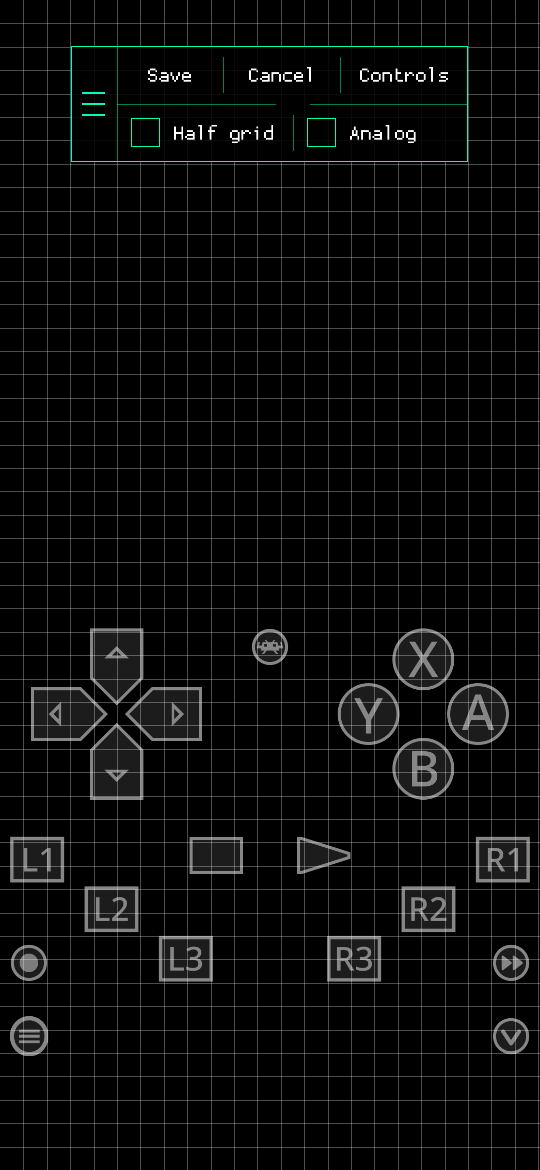
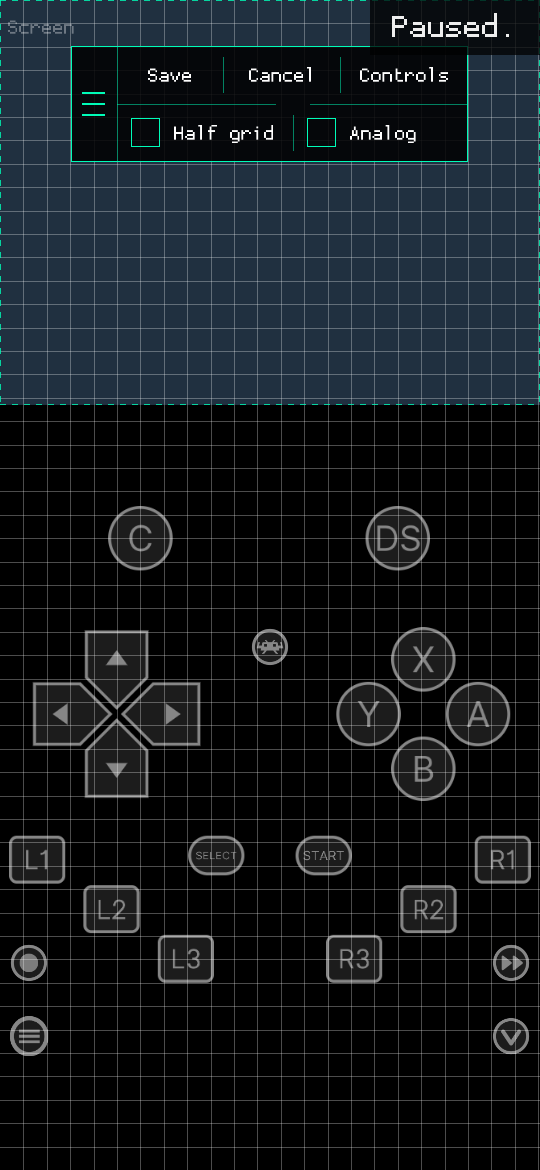
README: new screenshots and gamepads as overrides keep them
Screenshots of drawn buttons, sizing, Filled style, custom buttons,
Load Gamepad and the DS gamepad, in place of ones from before drawn
buttons; and where gamepads and their choice are kept.

Claude-Session: https://claude.ai/code/session_01S9RPqRvyYtWtRu6nZgD6gG

diff --git a/README.md b/README.md
@@ -82,30 +82,36 @@ Layout**, or **Quick Menu → On-Screen Overlay → Touch Layout** in a game.
   - **Save as Gamepad**: a copy of the gamepad shown, as laid out, to
     lay out apart, say for one game.
   - **Load Gamepad**: switch gamepads, the way RetroArch's Overlay
-    Preset works. While a game runs, the change lasts until it closes;
+    Preset works; the one in use is ticked. While a game runs, the change lasts until it closes;
     to keep it, save an override (Quick Menu > Overrides > Save Core
     Overrides or Save Game Overrides). With no game running, it is the
     gamepad for all content, apart from DS and 3DS cores, which start
     on their own unless an override says otherwise. Picking a gamepad
-    file as Overlay Preset (Settings > On-Screen Display > On-Screen
+    file as Overlay Preset (Settings > User Interface > On-Screen
     Overlay) does the same; the files are in `overlays/gamepads/custom`.
   - **Delete Gamepad**: delete one you saved.
-- **Reset Gamepad**: put a built-in gamepad back as it comes.
+  - **Reset Gamepad**: put a built-in gamepad back as it comes. A
+    built-in one that is missing is made again.
 
 #### Screenshots
 
-Portrait, with the bundled Neo RetroPad overlay and the Highlighter
-theme.
+Portrait, with the Main gamepad (drawn from the bundled Neo RetroPad
+overlay) and the Highlighter theme.
 
 <table>
   <tr>
     <td align="center"><img src="docs/touch-layout/touch-layout-menu.png" width="200" alt="Touch Layout menu"><br>Touch Layout menu</td>
-    <td align="center"><img src="docs/touch-layout/editor.png" width="200" alt="Layout editor with its bar and grid"><br>Editor, bar and grid</td>
-    <td align="center"><img src="docs/touch-layout/editor-controls.png" width="200" alt="Controls list in the editor"><br>Controls list</td>
+    <td align="center"><img src="docs/touch-layout/editor.png" width="200" alt="Layout editor with its bar, grid and the game screen box"><br>Editor, bar and grid</td>
+    <td align="center"><img src="docs/touch-layout/editor-size.png" width="200" alt="Face buttons selected, with Size and Shape sliders"><br>Size and Shape</td>
   </tr>
   <tr>
-    <td align="center"><img src="docs/touch-layout/editor-analog.png" width="200" alt="Editor on the analog page"><br>Analog page</td>
-    <td align="center"><img src="docs/touch-layout/controls-menu.png" width="200" alt="Controls menu"><br>Controls menu</td>
+    <td align="center"><img src="docs/touch-layout/custom-buttons.png" width="200" alt="Custom Buttons menu, with C sending L1 and DS switching gamepads"><br>Custom buttons</td>
+    <td align="center"><img src="docs/touch-layout/button-style-filled.png" width="200" alt="Button Style set to Filled"><br>Filled style</td>
+    <td align="center"><img src="docs/touch-layout/load-gamepad.png" width="200" alt="Load Gamepad, with the gamepad in use ticked"><br>Load Gamepad</td>
+  </tr>
+  <tr>
+    <td align="center"><img src="docs/touch-layout/ds-gamepad.png" width="200" alt="Nintendo DS gamepad in a game"><br>Nintendo DS gamepad</td>
+    <td></td>
     <td></td>
   </tr>
 </table>
@@ -113,9 +119,10 @@ theme.
 Gamepads are kept in `overlays/gamepads/custom/` as ordinary overlay
 config files, which any RetroArch can load: buttons where you put them,
 with RetroArch's standard images. This build draws its own buttons in
-their place, from extra settings other versions ignore. The gamepad a
-core or game uses is in `config/overlay_layouts/<core>[/<game>]/controller.cfg`.
-Layouts from before gamepads are turned into gamepads the first time.
+their place, from extra settings other versions ignore (`_pack`,
+`_label`, `_custom`, `_gamepad`, `overlay_button_style`, ...). Which
+gamepad a core or game uses is kept the way RetroArch keeps an overlay
+preset: in core and game overrides (`input_overlay`).
 
 ### Android defaults
 
